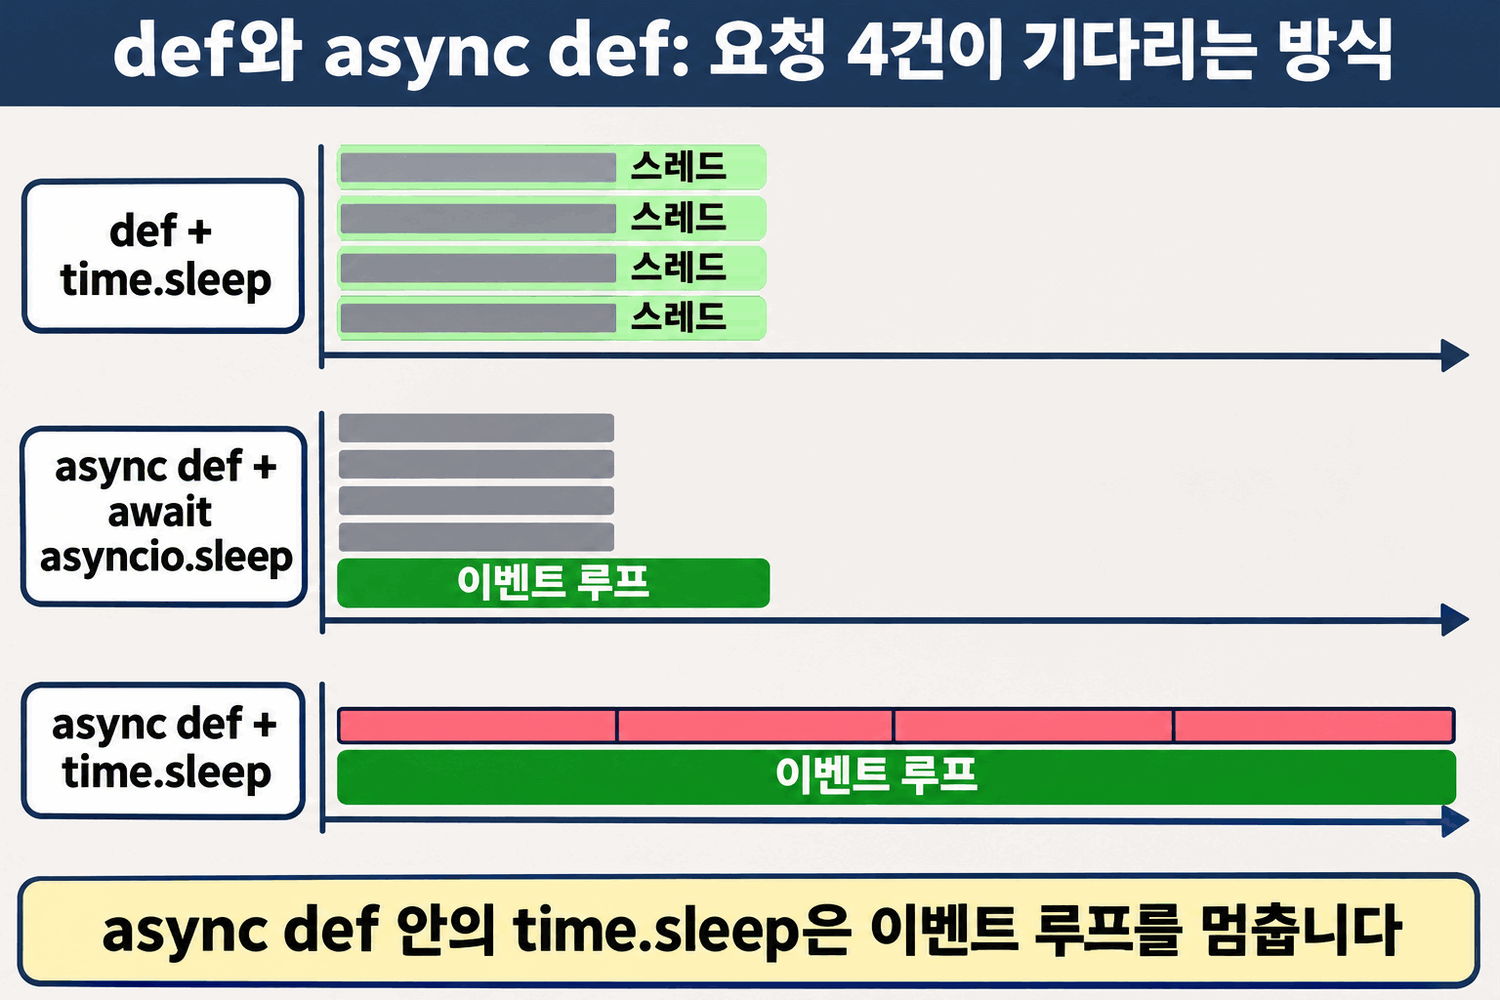
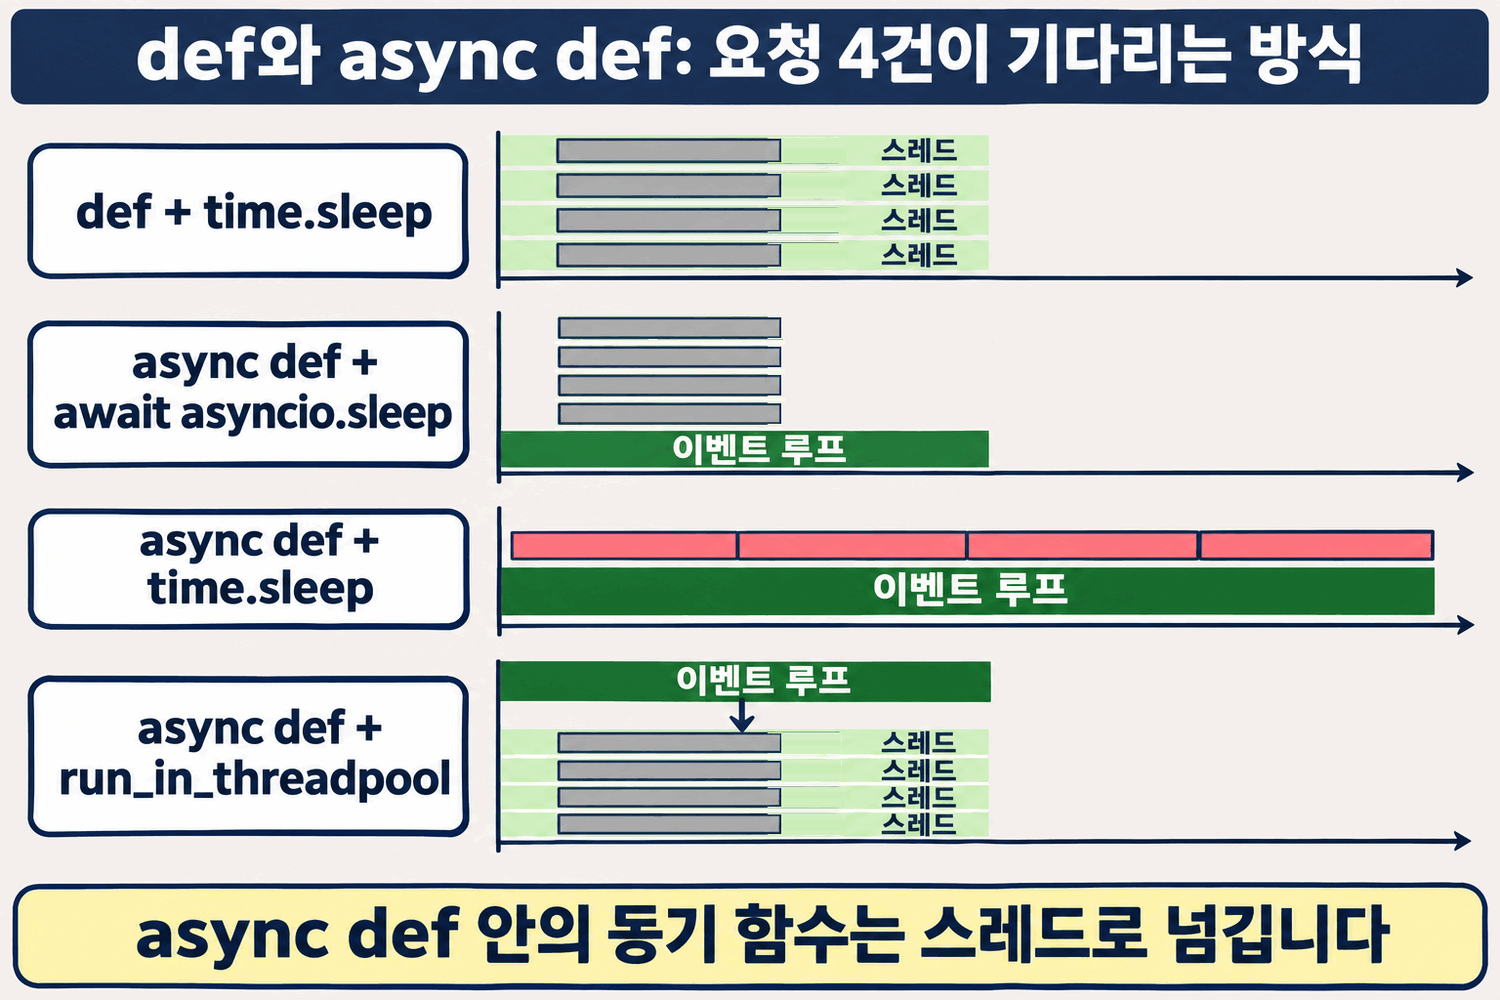
day77 교안 00 4절에 async def 안 동기 함수를 스레드로 넘기는 예 추가
- step3_async.py 에 /wait/thread(run_in_threadpool) 엔드포인트 추가, 4-3 시간 비교를 네 주소로
- 시간축 그림을 네 줄로 다시 만들고 막대 길이를 맞춤

diff --git a/day77_FastAPI_모델서빙API/교안_00_FastAPI_기초/step3_async.py b/day77_FastAPI_모델서빙API/교안_00_FastAPI_기초/step3_async.py
@@ -6,6 +6,7 @@ import asyncio
 import time
 
 from fastapi import FastAPI
+from fastapi.concurrency import run_in_threadpool
 
 app = FastAPI(title="도서관 안내 봇 API", version="0.3.0")
 
@@ -35,4 +36,12 @@ async def wait_blocking():
     """코루틴 엔드포인트 안에서 time.sleep 을 부른 예. 이벤트 루프가 BACKEND_DELAY 초 동안 멈춥니다."""
     time.sleep(BACKEND_DELAY)
     return {"endpoint": "async def + time.sleep"}
+
+
+# 고친 예: async def 안의 동기 함수는 run_in_threadpool 로 스레드 풀에 넘긴다
+@app.get("/wait/thread")
+async def wait_thread():
+    """time.sleep 을 스레드에서 실행하고, 이벤트 루프는 기다리는 동안 다른 요청을 처리합니다."""
+    await run_in_threadpool(time.sleep, BACKEND_DELAY)  # 함수와 인자를 따로 넘긴다
+    return {"endpoint": "async def + run_in_threadpool(time.sleep)"}
 
